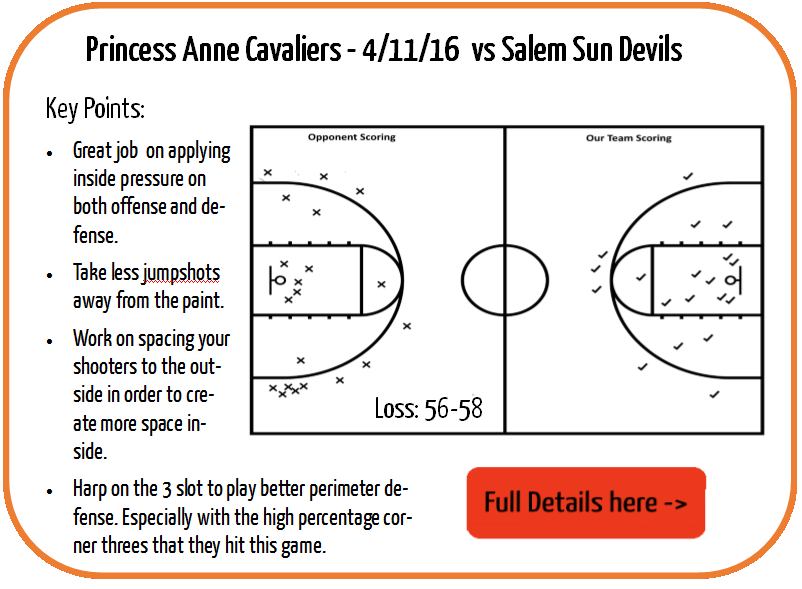
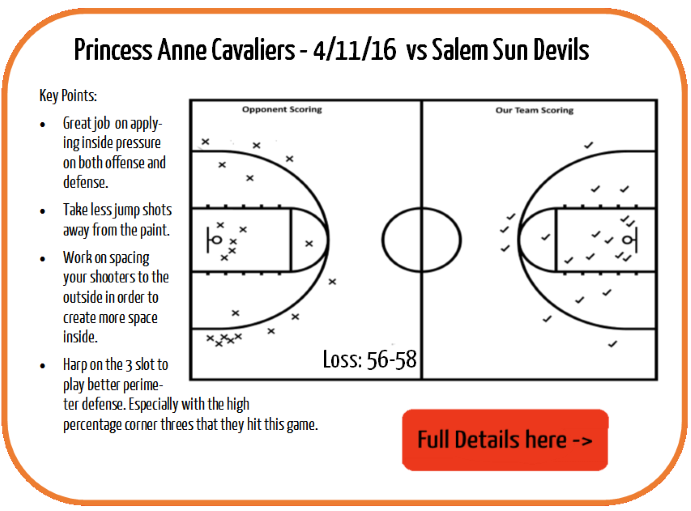
added volleyball2 and basketball pages, updated image

diff --git a/Milestone4/basketball.php b/Milestone4/basketball.php
@@ -71,10 +71,10 @@ if(!isset($_SESSION["user"])){
 
                 <!-- Main Content -->
                 <section style="text-align:center;">
-                    <header>
-                        <h2>Princess Anne Cavaliers Boys Volleyball</h2>
+                    <header >
+                        <h2>Princess Anne Lady Cavaliers</h2>
                     </header>
-                    <p><img src="images\Volleyballg1.png"></p>
+                    <p ><img src="images\bballg.png"></p>
                 </section>
 
             </div>

diff --git a/Milestone4/volleyball2.php b/Milestone4/volleyball2.php
@@ -75,6 +75,8 @@ if(!isset($_SESSION["user"])){
                         <h2>Princess Anne Cavaliers Boys Volleyball</h2>
                     </header>
                     <p><img src="images\Volleyballg1.png"></p>
+                    <br\>
+                    <p><img src="images\Volleyballg2.png"></p>
                 </section>
 
             </div>
